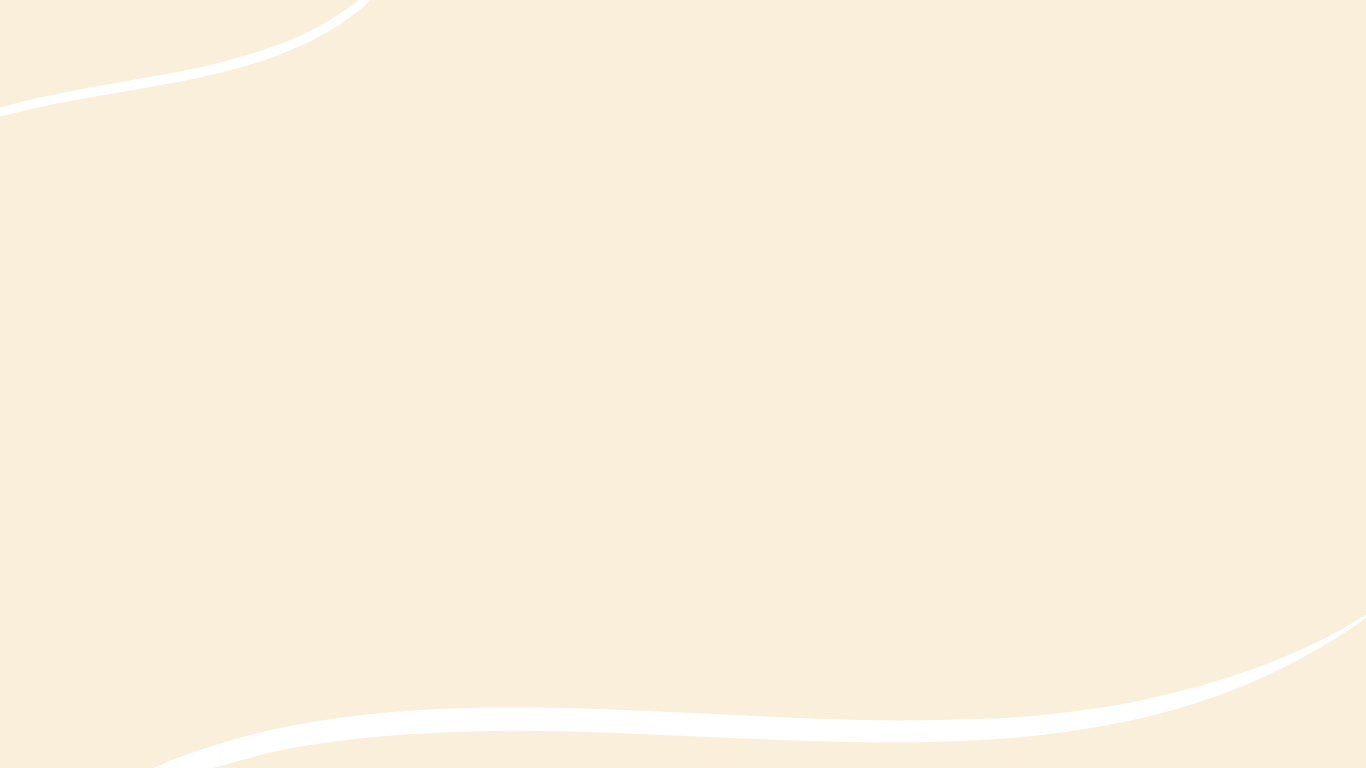
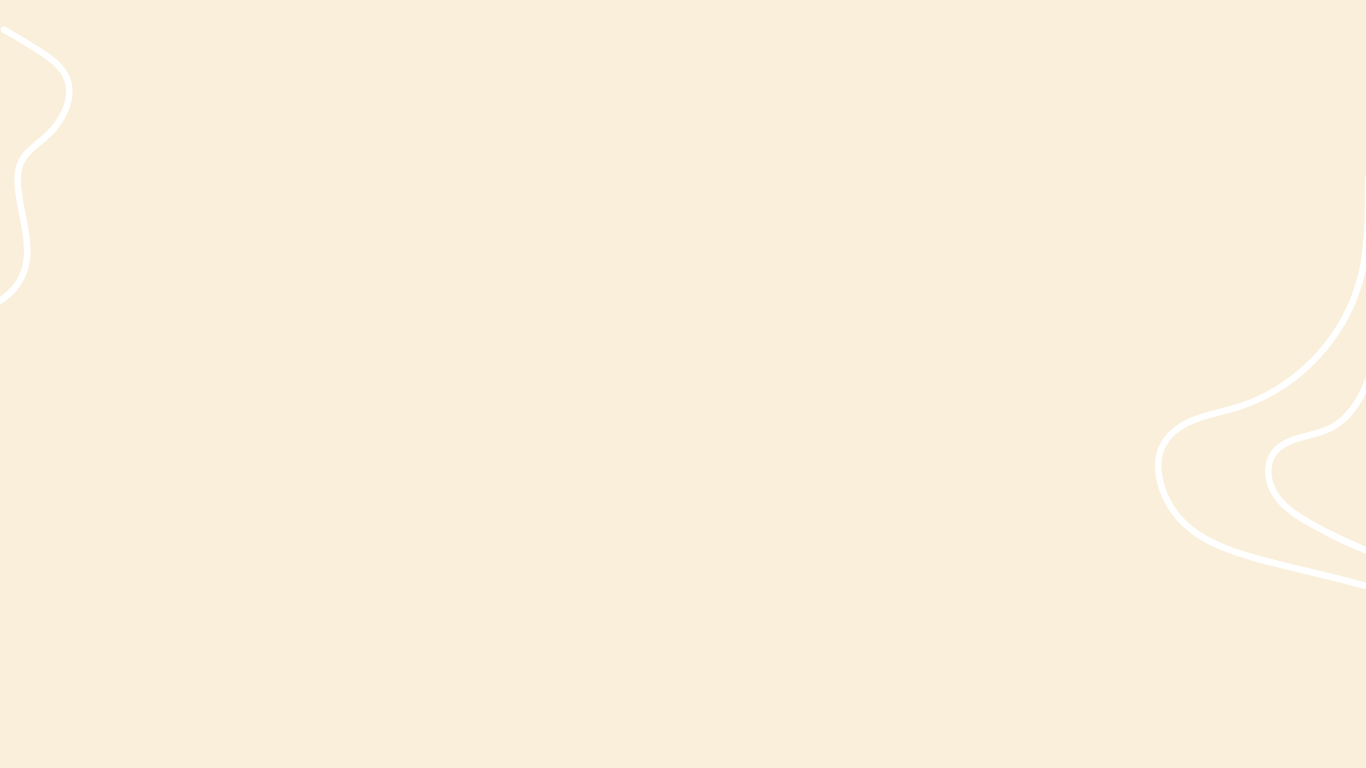
Added inital stylesheet and aded hero-bg2 to img folder. Updated hero-bg-1 and contact-hero images.

diff --git a/style.css b/style.css
@@ -1,0 +1,256 @@
+@import url('https://fonts.googleapis.com/css2?family=Cormorant+Garamond:ital,wght@0,300;0,400;0,500;0,600;0,700;1,300;1,400;1,500;1,600;1,700&display=swap');
+
+:root {
+    --white: #ffffff;
+    --green: #657258;
+    --black: #000000;
+    --cream: #ede6d9;
+    --background: #f7f4f2; 
+    --light-green: #9dbc98;
+    --action: rgba(99, 136, 137, )
+}
+
+/* CSS Reset to get rid of the weird browser setting*/
+
+html {
+    box-sizing: border-box;
+    font-size: 16px;
+    font-family: "Cormorant Garamond", serif;
+    color: var(--black);
+    scroll-behavior: smooth;
+  }
+  
+  *,
+  *:before,
+  *:after {
+    box-sizing: inherit;
+  }
+  
+  h1,
+  h2,
+  h3,
+  h4,
+  h5,
+  h6 {
+    font-family: "Cormorant Garamond", serif;
+  }
+  
+  body,
+  h1,
+  h2,
+  h3,
+  h4,
+  h5,
+  h6,
+  p,
+  ol,
+  ul {
+    margin: 0;
+    padding: 0;
+  }
+  
+  ol,
+  ul {
+    list-style: none;
+  }
+  
+  img {
+    max-width: 100%;
+    height: auto;
+  }
+  
+  input,
+  button,
+  textarea,
+  select {
+    font: inherit;
+  }
+
+/* utilities */
+
+.display-none {
+    display: none;
+  }
+
+  /* Components */
+
+body {
+    background-color: var(--background);
+}
+
+footer {
+    background-color: var(--green);
+    color: var(--white);
+}
+
+.btn-primary {
+    padding: 13px 26px;
+    display: inline-block;
+    text-decoration: none;
+    color: var(--black);
+    background-color: var(--cream);
+    margin: 24px 16px;
+}
+
+.btn-primary:hover {
+    color: var(--white);
+    background-color: var(--green);
+}
+
+header .mobile-header {
+    padding: 16px;
+    display: flex;
+    align-items: center;
+    justify-content: space-between;
+} 
+
+header button {
+    all: unset;
+}
+
+.logo {
+    height: 150px;
+}
+
+.mobile-nav a {
+    text-decoration: none;
+    color: var(--black);
+    display: block;
+    padding: 4px 16px;
+}
+
+.desktop-nav {
+    display: none;
+}
+
+.hamburger-icon {
+    height: 40px;
+}
+
+.hero {
+    margin: 5px 0;
+}
+
+.hero-bg {
+    margin-bottom: 24px;
+    
+}
+
+.hero-img {
+    display: flex;
+    justify-content: center;
+}
+
+.hero-text {
+    display: flex;
+    align-items: center;
+    flex-direction: column;
+}
+
+.hero-bg--1 {
+    background-image: url(./img/hero-bg-1.png);
+    width: 100%;
+}
+
+.hero-bg--1 img {
+    width:40%
+}
+
+.hero-bg--2 {
+    background-image: url(./img/hero-bg-1.png);
+    width: 100%;
+}
+
+.hero-text {
+    margin-left: 26px;
+}
+
+.hero h1 {
+    font-size: 2rem;
+    padding: 16px;
+}
+
+.hero p {
+    padding: 16px;
+    margin-bottom: 16px;
+}
+.portfolio {
+    padding: 32px 16px;
+    margin: 5px 10px;
+}
+
+footer {
+    padding:32px 16px;
+    text-align: center;
+    display: flex;
+    justify-content: space-around;
+}
+
+.socials-icon {
+    height: 50px;
+}
+
+footer a:has(img) {
+    text-decoration: none;
+}
+
+footer a:link, a:visited {
+    color: var(--white);
+}
+
+/* contact page styling */
+.form {
+    width: 80%;
+    margin-left: auto;
+    margin-right: auto;
+    margin-bottom: 56px;
+}
+.contact-form {
+    margin: 64px 72px;
+}
+
+.contact-form p {
+    padding-bottom: 32px;
+    font-size: 1.1rem;
+    text-align: center;
+}
+
+.form-floating input,textarea {
+    display: block;
+    padding: 8px;
+    margin-bottom: 16px;
+    width: 100%;
+    border: none;
+    background-color: transparent;
+    border-bottom: 1px solid;
+}
+
+.form-floating input[type="submit"] {
+    border: 0;
+    margin-top: 8px;
+    cursor: pointer;
+    background-color: var(--cream);
+    width: 15%;
+}
+
+.form-floating input[type="submit"]:hover {
+    background-color: var(--green);
+    color: var(--white);
+}
+
+
+
+
+
+
+
+
+
+
+
+
+
+
+
+
+
